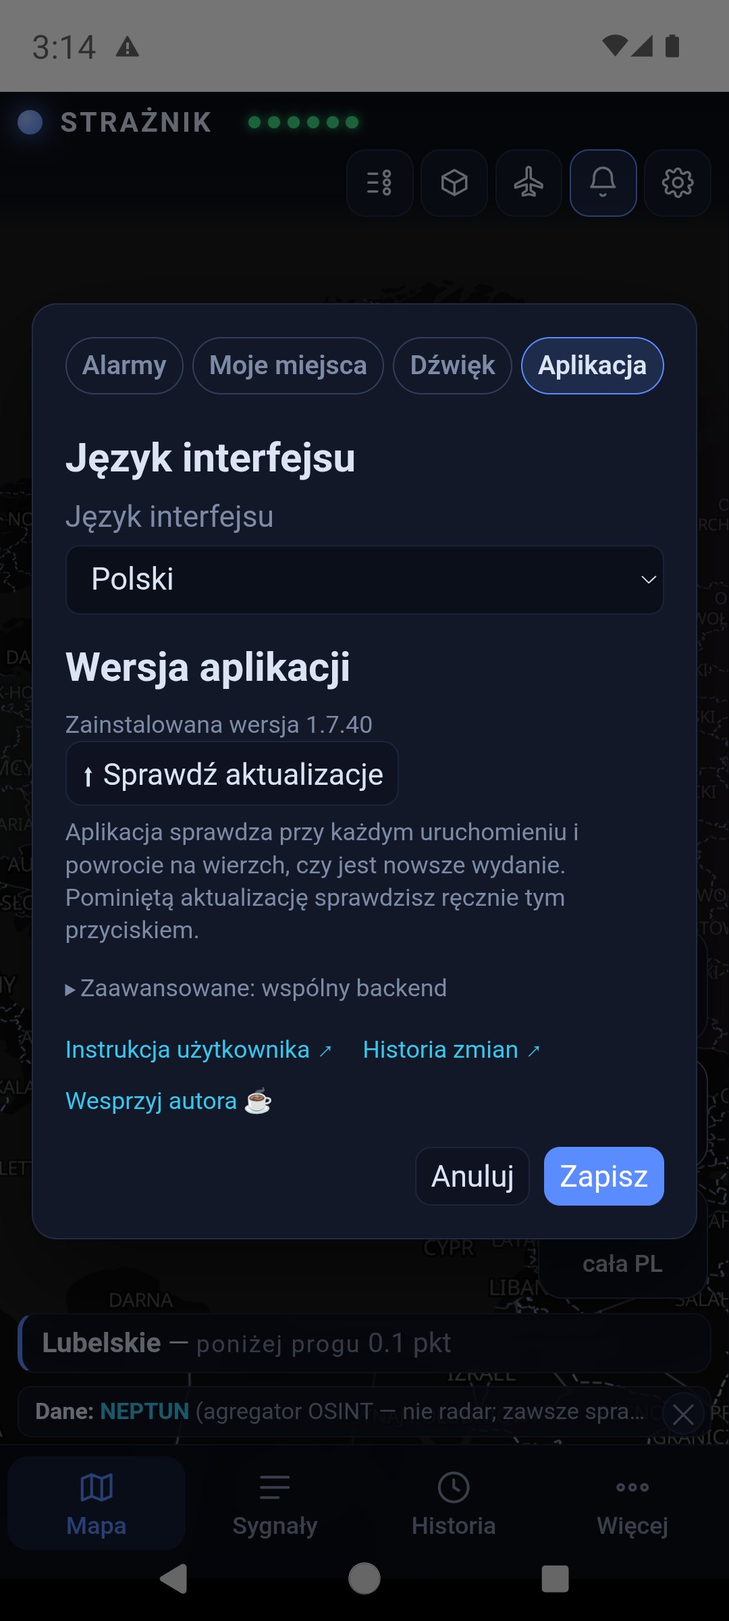
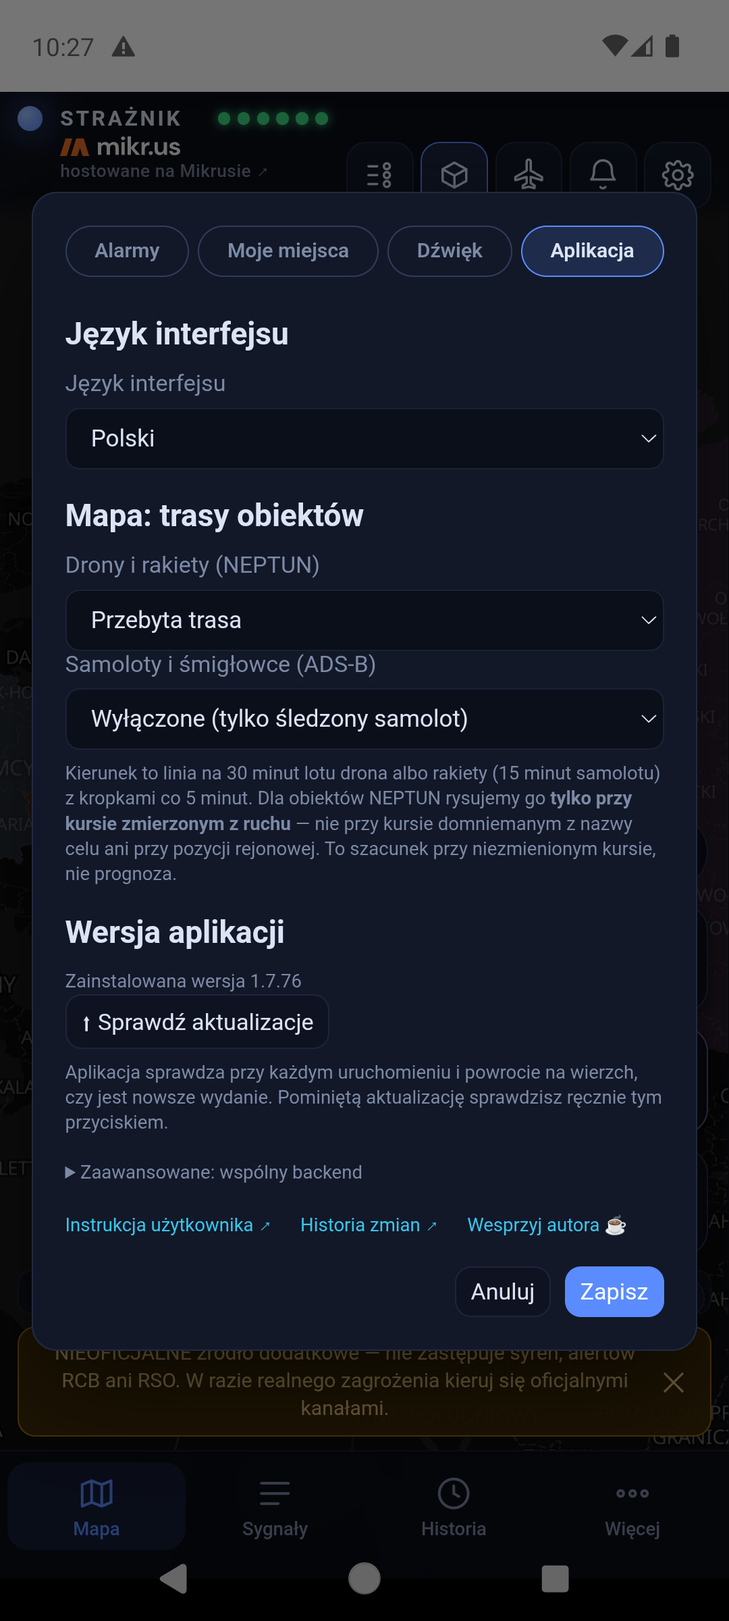
Instrukcja ukraińska dostaje zrzuty z ukraińskiego interfejsu
Czternaście ekranów przechwyconych na emulatorze Pixel 7 z Androidem 14,
z wydania 1.7.76 na żywych danych: ekran startowy, cztery zakładki
ustawień, Moje miejsca, panel sygnałów, „Więcej", obie części legendy,
okno źródeł, historia (05:31, pięć godzin wstecz) z panelem oraz okno
obcych maszyn. Zrzut historii pokazuje przy okazji nową zasadę: Alert RCB
o monitorowaniu sytuacji daje 3,6 pkt i PODWYŻSZONĄ UWAGĘ, nie czerwony.

Reszta ekranów ukraińskich (karty obiektów i maszyn, strefy na mapie,
ekran alarmu) czeka na moment z ruchem na mapie — instrukcja pisze wprost,
które zrzuty pokazują jeszcze interfejs angielski.

Zakładka „Aplikacja" odświeżona też po polsku i angielsku: widać na niej
wersję 1.7.76 i wybór języka z trzecią pozycją.

scripts/test_guide.py: 63 zrzuty zamiast 49.

diff --git a/docs/uk.html b/docs/uk.html
@@ -38,13 +38,13 @@
     <h1>Ситуація на мапі.<br>Джерело за кожним сигналом.</h1>
     <p class="lead">Strażnik поєднує відкриту інформацію про повітряні загрози і показує бали для кожного воєводства Польщі. Працює на Android, на iPhone і у браузері.</p>
     <div class="actions"><a class="button primary" href="https://github.com/cukierrro/Straznik/releases/latest/download/Straznik.apk">↓ Завантажити для Android</a><a class="button primary" href="https://apps.apple.com/pl/app/id6813563009">↓ Завантажити для iOS</a><a class="button" href="https://straznik.eu">Відкрити мапу</a></div>
-    <p class="fineprint">Ця інструкція описує лише поточну версію 1.7.76. Усі знімки зроблено 13 вересня 2026 року на Pixel 7 з Android 14, на живих даних. Що змінювалося від випуску до випуску — у <a href="zmiany-en.html" lang="en">списку змін</a> (польською та англійською). Торкніться знімка, щоб відкрити його в повному розмірі.</p>
-    <div class="note"><b>Про знімки в цій інструкції.</b> Застосунок говорить українською (⚙ → Застосунок → Мова інтерфейсу → «Українська»), але знімки нижче показують англійський інтерфейс: вони зроблені перед додаванням української. Розташування кнопок і зміст екранів однакові. Знімки з українським інтерфейсом додамо разом із наступним випуском.</div>
+    <p class="fineprint">Ця інструкція описує лише поточну версію 1.7.76. Знімки зроблено на Pixel 7 з Android 14, на живих даних: українські — 23 вересня 2026 року, решта — 13 вересня. Що змінювалося від випуску до випуску — у <a href="zmiany-en.html" lang="en">списку змін</a> (польською та англійською). Торкніться знімка, щоб відкрити його в повному розмірі.</p>
+    <div class="note"><b>Про знімки в цій інструкції.</b> Більшість знімків зроблено 23 вересня 2026 року на емуляторі Pixel 7 з Android 14, у версії 1.7.76 <b>з українським інтерфейсом</b>, на живих даних. Кілька знімків — картки об'єктів і літаків, зони PAŻP на мапі та екран тривоги — поки що показують англійський інтерфейс; вони чекають на момент, коли на мапі буде що показати. Розташування кнопок і зміст екранів у них такі самі.</div>
     <p class="fineprint"><b>Користуєтесь iPhone?</b> Тривоги, дозволи й оновлення працюють там інакше — прочитайте <a href="iphone-en.html" lang="en">інструкцію для iPhone</a> (польською та англійською).</p>
     <p class="host-note"><img src="mikrus-logo.svg" alt="Mikrus" width="86" height="14">
       Сервер Strażnika надає <a href="https://mikr.us">Mikrus</a> — дякуємо за підтримку проєкту.</p>
   </div>
-  <a class="shot-link" href="screens/1737/start-en.jpg"><img src="screens/1737/start-en.jpg" width="1080" height="2400" alt="Початковий екран Strażnika: мапа Польщі та України, шість зелених діод джерел, іконки вгорі, плитки «мій регіон», «зони» і «вся Польща» та вкладки Мапа, Сигнали, Історія, Ще"></a>
+  <a class="shot-link" href="screens/1737/start-uk.jpg"><img src="screens/1737/start-uk.jpg" width="1080" height="2400" alt="Початковий екран Strażnika українською: мапа Польщі та України з підписами українською, шість зелених діод джерел, іконки вгорі, плитки «мій регіон», «зони» і «вся Польща» та вкладки Мапа, Сигнали, Історія, Ще"></a>
 </div></header>
 <main id="content" class="wrap">
 
@@ -83,7 +83,7 @@
       <p>Для звичайного оновлення можна вибрати <kbd>Пізніше</kbd>. Під час встановлення застосунок завантажує файл, перевіряє його контрольну суму SHA-256 і передає Android на підтвердження. Встановлюйте новий випуск поверх старого — налаштування й Мої місця зберігаються.</p>
       <div class="note"><b>Яка у вас версія?</b> <kbd>⚙</kbd> → вкладка <kbd>Застосунок</kbd> → «Встановлена версія». Найновіший випуск — <b>1.7.76</b>. Внизу вкладки є посилання на цю інструкцію, список змін і підтримку автора.</div>
     </div>
-    <figure><a class="shot-link" href="screens/1737/set-aplikacja-en.jpg"><img loading="lazy" src="screens/1737/set-aplikacja-en.jpg" width="1080" height="2400" alt="Налаштування, вкладка Застосунок: мова інтерфейсу, встановлена версія 1.7.74, кнопка перевірки оновлень, згорнутий розділ «Додатково» та посилання на інструкцію, список змін і підтримку"></a><figcaption><kbd>⚙</kbd> → <kbd>Застосунок</kbd>: мова, версія, оновлення.</figcaption></figure>
+    <figure><a class="shot-link" href="screens/1737/set-aplikacja-uk.jpg"><img loading="lazy" src="screens/1737/set-aplikacja-uk.jpg" width="1080" height="2400" alt="Налаштування, вкладка Застосунок: мова інтерфейсу «Українська», шляхи об'єктів на мапі, встановлена версія 1.7.76, кнопка перевірки оновлень, згорнутий розділ «Додатково» та посилання на інструкцію, список змін і підтримку"></a><figcaption><kbd>⚙</kbd> → <kbd>Застосунок</kbd>: мова, версія, оновлення.</figcaption></figure>
   </div>
 </section>
 
@@ -96,12 +96,12 @@
       <p>Місце може бути й точним: натискання <kbd>◎ Зчитати місцеперебування один раз</kbd> збереже одноразову точку та її точність. Жодного стеження у фоні немає. Коли застосунок відкритий, Strażnik рахує на телефоні відстань до видимих об'єктів. Сповіщення й далі надсилаються на рівні воєводства.</p>
       <p>Дані про місця залишаються на пристрої — кнопка так і називається: <kbd>Зберегти на пристрої</kbd>.</p>
     </div>
-    <figure><a class="shot-link" href="screens/1737/places-en.jpg"><img loading="lazy" src="screens/1737/places-en.jpg" width="1080" height="2400" alt="Вікно «Мої місця»: місце Дім, точність «Воєводство», Люблінське воєводство, позначено стеження за тривогами, пояснення як це працює та кнопки видалення, скасування і збереження на пристрої"></a><figcaption>Місце «Дім» у Люблінському воєводстві з увімкненими тривогами.</figcaption></figure>
+    <figure><a class="shot-link" href="screens/1737/places-uk.jpg"><img loading="lazy" src="screens/1737/places-uk.jpg" width="1080" height="2400" alt="Вікно «Мої місця»: порожнє поле назви з підказкою «напр. Дім», точність «Воєводство», вибране Люблінське воєводство, позначено стеження за тривогами, пояснення як це працює та кнопки скасування і збереження на пристрої"></a><figcaption>Нове місце в Люблінському воєводстві з увімкненими тривогами (назву можна вписати будь-якою мовою).</figcaption></figure>
   </div>
   <div class="shots">
-    <figure><a class="shot-link" href="screens/1737/set-alarmy-en.jpg"><img loading="lazy" src="screens/1737/set-alarmy-en.jpg" width="1080" height="2400" alt="Налаштування, вкладка Тривоги: сповіщення готові для Люблінського воєводства та кнопки налаштувань сповіщень, дозволу на повноекранну тривогу й економії батареї"></a><figcaption><b>Тривоги</b>: стан сповіщень і швидкий доступ до налаштувань Android.</figcaption></figure>
-    <figure><a class="shot-link" href="screens/1737/set-miejsca-en.jpg"><img loading="lazy" src="screens/1737/set-miejsca-en.jpg" width="1080" height="2400" alt="Налаштування, вкладка Мої місця: 1 з 8 місць, відстежуване Люблінське воєводство і кнопка відкриття Моїх місць"></a><figcaption><b>Мої місця</b>: підсумок і вхід до редагування.</figcaption></figure>
-    <figure><a class="shot-link" href="screens/1737/set-dzwiek-en.jpg"><img loading="lazy" src="screens/1737/set-dzwiek-en.jpg" width="1080" height="2400" alt="Налаштування, вкладка Звук: опис звукових сигналів і кнопки тестів уваги, сирени та повної тривоги"></a><figcaption><b>Звук</b>: локальні тести звуку.</figcaption></figure>
+    <figure><a class="shot-link" href="screens/1737/set-alarmy-uk.jpg"><img loading="lazy" src="screens/1737/set-alarmy-uk.jpg" width="1080" height="2400" alt="Налаштування, вкладка Тривоги: перемикач «Тривоги на цьому телефоні», інформація, що воєводство ще не вибрано, та кнопки налаштувань сповіщень, дозволу на повноекранну тривогу й економії батареї"></a><figcaption><b>Тривоги</b>: стан сповіщень і швидкий доступ до налаштувань Android.</figcaption></figure>
+    <figure><a class="shot-link" href="screens/1737/set-miejsca-uk.jpg"><img loading="lazy" src="screens/1737/set-miejsca-uk.jpg" width="1080" height="2400" alt="Налаштування, вкладка Мої місця: опис, інформація «Ще не збережено жодного місця» і кнопка «Відкрити Мої місця»"></a><figcaption><b>Мої місця</b>: підсумок і вхід до редагування.</figcaption></figure>
+    <figure><a class="shot-link" href="screens/1737/set-dzwiek-uk.jpg"><img loading="lazy" src="screens/1737/set-dzwiek-uk.jpg" width="1080" height="2400" alt="Налаштування, вкладка Звук: опис звукових сигналів, кнопки тестів уваги, сирени та повної тривоги, розділ «Системна тривога і гучність» із перемикачем повної гучності"></a><figcaption><b>Звук</b>: локальні тести звуку.</figcaption></figure>
   </div>
   <h3>Дозволи Android</h3>
   <p>Вкладка <kbd>Тривоги</kbd> показує, чи сповіщення готові й для якого регіону. Якщо ви хочете лише дивитися мапу, вимкніть <kbd>Тривоги на цьому телефоні</kbd> — телефон буде відписано від усіх воєводств і він перестане отримувати сповіщення про тривоги й нагадування про дозволи. Напис над перемикачем показує, на скільки воєводств телефон підписаний (підтверджено Firebase). Дозволи Android залишаються без змін — застосунок не може їх змінити. Попередження про дозволи на мапі можна закрити хрестиком. Три кнопки ведуть просто до системних налаштувань: <kbd>🔔 Налаштування сповіщень</kbd>, <kbd>🚨 Перевірити дозвіл на повноекранну тривогу</kbd> і <kbd>🔋 Вимкнути економію батареї</kbd>. Android 14 і новіші можуть скасувати дозвіл на повноекранну тривогу після оновлення — перевірте його особисто.</p>
@@ -128,8 +128,8 @@
   </tbody></table></div>
   <p>На старті внизу з'являється смуга «НЕОФІЦІЙНЕ додаткове джерело…». Її можна закрити хрестиком — під час тривоги вона повертається. Панелі й вікна закривайте хрестиком, вкладкою <kbd>Мапа</kbd> або торканням поруч із ними.</p>
   <div class="shots">
-    <figure><a class="shot-link" href="screens/1737/sources-en.jpg"><img loading="lazy" src="screens/1737/sources-en.jpg" width="1080" height="2400" alt="Вікно «Джерела даних»: кожна діода — одне джерело; описи NEPTUN і Тривог UA зі станом «працює»"></a><figcaption>Торкання діод: опис і стан кожного джерела.</figcaption></figure>
-    <figure><a class="shot-link" href="screens/1737/more-en.jpg"><img loading="lazy" src="screens/1737/more-en.jpg" width="1080" height="2400" alt="Панель «Ще»: Про застосунок і бали, Інструкція, Підтримати автора та кнопка закриття"></a><figcaption>Вкладка <kbd>Ще</kbd>.</figcaption></figure>
+    <figure><a class="shot-link" href="screens/1737/sources-uk.jpg"><img loading="lazy" src="screens/1737/sources-uk.jpg" width="1080" height="2400" alt="Вікно «Джерела даних»: кожна діода — одне джерело; описи NEPTUN і Тривог UA зі станом «працює»"></a><figcaption>Торкання діод: опис і стан кожного джерела.</figcaption></figure>
+    <figure><a class="shot-link" href="screens/1737/more-uk.jpg"><img loading="lazy" src="screens/1737/more-uk.jpg" width="1080" height="2400" alt="Панель «Ще»: Про застосунок і бали, Інструкція, Підтримати автора та кнопка закриття"></a><figcaption>Вкладка <kbd>Ще</kbd>.</figcaption></figure>
   </div>
 </section>
 
@@ -167,7 +167,7 @@
       Через годину іконка помітно згасла. Тож нерухомі іконки означають відсутність нових
       повідомлень, а не завислу мапу. Картка об'єкта показує рядок <kbd>останнє повідомлення</kbd>,
       а після чверті години додає, що відтоді об'єкт міг переміститися.</p>
-    <figure><a class="shot-link" href="screens/1737/legend-en.jpg"><img loading="lazy" src="screens/1737/legend-en.jpg" width="1080" height="2400" alt="Легенда: дев'ять символів об'єктів NEPTUN, символ невідомого курсу, пульсуюче кільце об'єкта, що додає бали, коло невизначеності, пунктир пройденого шляху, військовий літак і гелікоптер"></a><figcaption>Легенда — перша іконка вгорі.</figcaption></figure>
+    <figure><a class="shot-link" href="screens/1737/legend-uk.jpg"><img loading="lazy" src="screens/1737/legend-uk.jpg" width="1080" height="2400" alt="Легенда: дев'ять символів об'єктів NEPTUN, символ невідомого курсу, пульсуюче кільце об'єкта, що додає бали, коло невизначеності, пунктир пройденого шляху, військовий літак і гелікоптер"></a><figcaption>Легенда — перша іконка вгорі.</figcaption></figure>
   </div>
   <h3 id="zdjecia">Картки об'єктів і літаків</h3>
   <p>Торкання об'єкта відкриває <b>міні-картку</b> в лівому нижньому куті й обводить об'єкт на мапі білим кільцем. Стрілка <kbd>⌃</kbd> розгортає картку, <kbd>⌄</kbd> згортає, <kbd>✕</kbd> закриває.</p>
@@ -193,7 +193,7 @@
   </div>
   <div class="shots">
     <figure><a class="shot-link" href="screens/1737/zones-map-en.jpg"><img loading="lazy" src="screens/1737/zones-map-en.jpg" width="1080" height="2400" alt="Мапа, скадрована на Люблінському воєводстві з увімкненим шаром зон: фіолетові контури над сходом Польщі й підсвічена плитка зон"></a><figcaption>Шар зон над сходом Польщі.</figcaption></figure>
-    <figure><a class="shot-link" href="screens/1737/legend2-en.jpg"><img loading="lazy" src="screens/1737/legend2-en.jpg" width="1080" height="2400" alt="Нижня частина легенди: кольори воєводств разом із приглушеним кольором від сусідів, рожева область України з тривогою, що додає бали, і кольори постійних та нещодавно ввімкнених зон із приміткою про бали"></a><figcaption>Легенда воєводств і зон.</figcaption></figure>
+    <figure><a class="shot-link" href="screens/1737/legend2-uk.jpg"><img loading="lazy" src="screens/1737/legend2-uk.jpg" width="1080" height="2400" alt="Нижня частина легенди: кольори воєводств разом із приглушеним кольором від сусідів, рожева область України з тривогою, що додає бали, і кольори постійних та нещодавно ввімкнених зон із приміткою про бали"></a><figcaption>Легенда воєводств і зон.</figcaption></figure>
   </div>
 </section>
 
@@ -213,7 +213,7 @@
       </ul>
       <p>Запис <b>СУСІДИ</b> — це бали, перенесені із сусіднього воєводства (розділ <a href="#punkty">11</a>).</p>
     </div>
-    <figure><a class="shot-link" href="screens/1737/panel-en.jpg"><img loading="lazy" src="screens/1737/panel-en.jpg" width="1080" height="2400" alt="Панель сигналів: картка Люблінського воєводства, мій регіон, 1,0 бала нижче порога, складається з 0,9 ТРИВОГА UA, зони PAŻP без балів та картки Підкарпатського й Мазовецького воєводств"></a><figcaption>Картки воєводств у спокійний момент.</figcaption></figure>
+    <figure><a class="shot-link" href="screens/1737/panel-uk.jpg"><img loading="lazy" src="screens/1737/panel-uk.jpg" width="1080" height="2400" alt="Панель сигналів: картки Люблінського, Підкарпатського, Підляського і Вармінсько-Мазурського воєводств, у кожній 0.0 бала нижче порога та перелік зон PAŻP без балів"></a><figcaption>Картки воєводств у спокійний момент.</figcaption></figure>
   </div>
   <p>Нижче панель має два списки спостережень без балів: <b>Об'єкти ≤ 250 км від кордону</b> (NEPTUN) і <b>Військова авіація (ADS-B)</b> над сходом Польщі. Це відкриті дані транспондерів, а не стеження за ворожою авіацією. Там, де вони є, картка воєводства пропонує ще <kbd>📷 Камери в регіоні</kbd> — це дорожні камери, а не спосіб виявляти повітряні об'єкти.</p>
   <div class="shots">
@@ -231,10 +231,10 @@
       <p>У режимі історії панель має заголовок <b>ПЕРЕГЛЯД ІСТОРІЇ</b>, а час сигналів рахується від обраної миті («36 хв раніше»). <kbd>ПЕРЕЙТИ НАЖИВО</kbd> у заголовку смуги, вкладка <kbd>Мапа</kbd> або системна кнопка «назад» повертають поточний вигляд.</p>
       <p>Історію завантажуємо на пристрій один раз, і прокручування працює локально, без запиту до сервера за кожним рухом пальця. Знімки зазвичай робляться щохвилини — це відтворення збережених зрізів, а не безперервний запис.</p>
     </div>
-    <figure><a class="shot-link" href="screens/1737/history-en.jpg"><img loading="lazy" src="screens/1737/history-en.jpg" width="1080" height="2400" alt="Режим історії о 04:47: Люблінське воєводство червоне з 4,4 бала і Підкарпатське жовте у 3D, кольоровий повзунок, кнопка повернення наживо і посилання «22 сигнали у вікні»"></a><figcaption>Ранок 13 вересня 2026: Люблінське воєводство червоне після Alert RCB.</figcaption></figure>
+    <figure><a class="shot-link" href="screens/1737/history-uk.jpg"><img loading="lazy" src="screens/1737/history-uk.jpg" width="1080" height="2400" alt="Режим історії о 05:31, п'ять годин тому: схід Польщі жовтий, кольоровий повзунок із позначеними тривогами, кнопка «ПЕРЕЙТИ НАЖИВО» та підпис «3.6 бал. · воєв. Люблінське · 11 об'єктів» і посилання «15 сигналів у вікні»"></a><figcaption>Ранок 13 вересня 2026: Люблінське воєводство червоне після Alert RCB.</figcaption></figure>
   </div>
   <div class="shots">
-    <figure><a class="shot-link" href="screens/1737/history-panel-en.jpg"><img loading="lazy" src="screens/1737/history-panel-en.jpg" width="1080" height="2400" alt="Панель у режимі історії: заголовок ПЕРЕГЛЯД ІСТОРІЇ 04:47, картка Люблінського воєводства 4,4 бала ВИСОКИЙ ПРІОРИТЕТ із внеском RCB і повітряною тривогою у Львівській області"></a><figcaption>Розклад балів в обрану мить.</figcaption></figure>
+    <figure><a class="shot-link" href="screens/1737/history-panel-uk.jpg"><img loading="lazy" src="screens/1737/history-panel-uk.jpg" width="1080" height="2400" alt="Панель у режимі історії: заголовок ПЕРЕГЛЯД ІСТОРІЇ 05:31, картка Люблінського воєводства 3.6 бала ПІДВИЩЕНА УВАГА з Alert RCB, процитованим мовою оригіналу, і двома об'єктами NEPTUN за 80 і 90 км"></a><figcaption>Розклад балів в обрану мить.</figcaption></figure>
   </div>
 </section>
 
@@ -245,7 +245,7 @@
       <p>Іконка літака вгорі відкриває список військових літаків із російською чи білоруською реєстрацією, видимих у відкритих даних ADS-B/MLAT над східним флангом. Панель має дві частини: <b>зараз у зоні</b> і <b>журнал — увійшли / зникли із зони</b> за останні 12 годин, разом із часом, коли застосунок був закритий.</p>
       <p>У режимі історії панель іде за обраною миттю. Приглушений літак на мапі — це його остання записана позиція щонайбільше за 2,5 хвилини до того. «Зник» означає втрату сигналу в даних, а не посадку чи збиття. Ці спостереження балів не додають, а порожній список не означає порожнього неба — багато машин летить із вимкненим транспондером.</p>
     </div>
-    <figure><a class="shot-link" href="screens/1737/watch-en.jpg"><img loading="lazy" src="screens/1737/watch-en.jpg" width="1080" height="2400" alt="Вікно «Чужі літаки над східним флангом»: опис, позначка НАЖИВО, розділи «Зараз у зоні» і «Журнал», у цю мить літаків немає"></a><figcaption>Чужі літаки — цієї миті в зоні нікого.</figcaption></figure>
+    <figure><a class="shot-link" href="screens/1737/watch-uk.jpg"><img loading="lazy" src="screens/1737/watch-uk.jpg" width="1080" height="2400" alt="Вікно «Чужі літаки над східним флангом»: опис, позначка «НАЖИВО — поточні спостереження», розділи «Зараз у зоні» і «Журнал», у цю мить машин немає"></a><figcaption>Чужі літаки — цієї миті в зоні нікого.</figcaption></figure>
   </div>
 </section>
 

diff --git a/docs/index.html b/docs/index.html
@@ -82,7 +82,7 @@
       <p>Przy zwykłej aktualizacji możesz wybrać <kbd>Później</kbd>. Po wybraniu instalacji aplikacja pobiera plik, sprawdza jego sumę SHA-256 i przekazuje go Androidowi do zatwierdzenia. Instaluj nowe wydanie na istniejące — ustawienia i Moje miejsca zostają.</p>
       <div class="note"><b>Która wersja jest u Ciebie?</b> <kbd>⚙</kbd> → zakładka <kbd>Aplikacja</kbd> → „Zainstalowana wersja”. Najnowsze wydanie to <b>1.7.76</b>. Na dole zakładki są odnośniki do tej instrukcji, historii zmian i wsparcia autora.</div>
     </div>
-    <figure><a class="shot-link" href="screens/1737/set-aplikacja-pl.jpg"><img loading="lazy" src="screens/1737/set-aplikacja-pl.jpg" width="1080" height="2400" alt="Ustawienia, zakładka Aplikacja: język interfejsu, zainstalowana wersja 1.7.74, przycisk Sprawdź aktualizacje, rozwijane Zaawansowane i odnośniki do instrukcji, historii zmian i wsparcia autora"></a><figcaption><kbd>⚙</kbd> → <kbd>Aplikacja</kbd>: język, wersja, aktualizacje.</figcaption></figure>
+    <figure><a class="shot-link" href="screens/1737/set-aplikacja-pl.jpg"><img loading="lazy" src="screens/1737/set-aplikacja-pl.jpg" width="1080" height="2400" alt="Ustawienia, zakładka Aplikacja: język interfejsu, zainstalowana wersja 1.7.76, przycisk Sprawdź aktualizacje, rozwijane Zaawansowane i odnośniki do instrukcji, historii zmian i wsparcia autora"></a><figcaption><kbd>⚙</kbd> → <kbd>Aplikacja</kbd>: język, wersja, aktualizacje.</figcaption></figure>
   </div>
 </section>
 

diff --git a/docs/en.html b/docs/en.html
@@ -82,7 +82,7 @@
       <p>For an ordinary update you can choose <kbd>Later</kbd>. When you install, the app downloads the file, verifies its SHA-256 checksum and hands it to Android for confirmation. Install the new release over the old one — settings and My places are kept.</p>
       <div class="note"><b>Which version do you have?</b> <kbd>⚙</kbd> → <kbd>App</kbd> tab → “Installed version”. The latest release is <b>1.7.76</b>. At the bottom of the tab are links to this guide, the changelog and supporting the author.</div>
     </div>
-    <figure><a class="shot-link" href="screens/1737/set-aplikacja-en.jpg"><img loading="lazy" src="screens/1737/set-aplikacja-en.jpg" width="1080" height="2400" alt="Settings, App tab: interface language English, installed version 1.7.74, Check for updates button, collapsed Advanced section and links to the user guide, changelog and support"></a><figcaption><kbd>⚙</kbd> → <kbd>App</kbd>: language, version, updates.</figcaption></figure>
+    <figure><a class="shot-link" href="screens/1737/set-aplikacja-en.jpg"><img loading="lazy" src="screens/1737/set-aplikacja-en.jpg" width="1080" height="2400" alt="Settings, App tab: interface language English, installed version 1.7.76, Check for updates button, collapsed Advanced section and links to the user guide, changelog and support"></a><figcaption><kbd>⚙</kbd> → <kbd>App</kbd>: language, version, updates.</figcaption></figure>
   </div>
 </section>
 

diff --git a/scripts/test_guide.py b/scripts/test_guide.py
@@ -9,8 +9,10 @@ ROOT = Path(__file__).resolve().parents[1] / "docs"
 HISTORICAL = {}   # instrukcja od 1.7.37 używa wyłącznie bieżących zrzutów
 # nie-zrzuty (logo hostingu): własny rozmiar i nie liczą się do puli zrzutów
 OTHER_IMAGES = {"mikrus-logo.svg": (86, 14)}
-# odrębne zrzuty: instrukcja 21 ekranów × PL/EN + 7 archiwalnych w historii zmian
-EXPECTED_SHOTS = 49
+# odrębne zrzuty: instrukcja 21 ekranów × PL/EN, 14 ekranów po ukraińsku
+# (reszta ukraińskich czeka na moment, gdy na mapie będzie co pokazać)
+# + 7 archiwalnych w historii zmian
+EXPECTED_SHOTS = 63
 
 
 class Page(HTMLParser):
